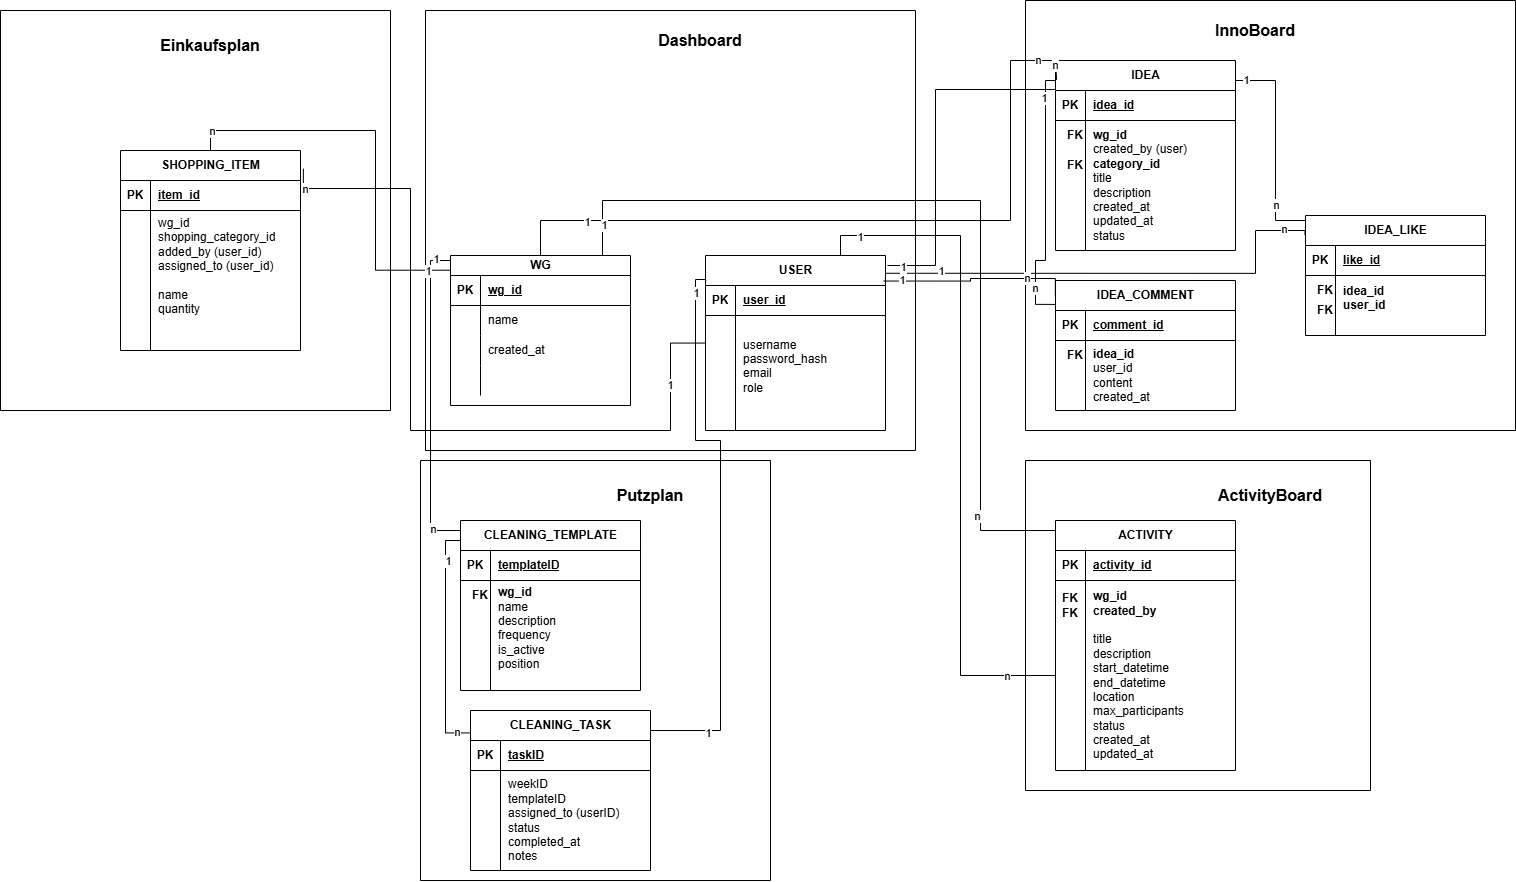
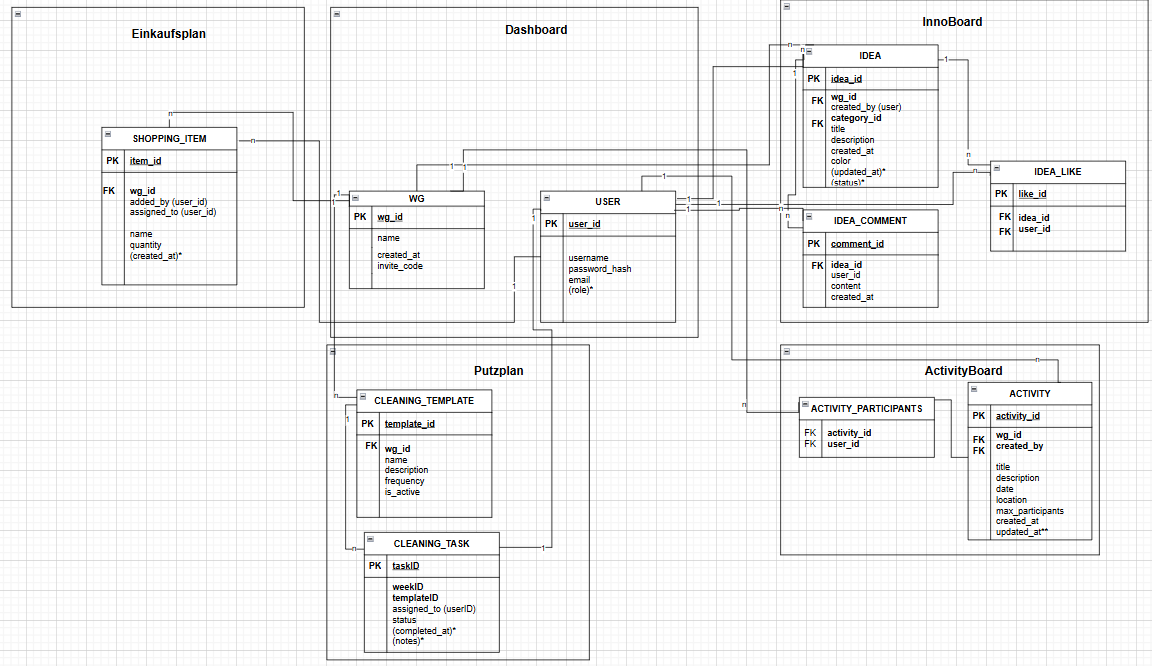
Add entitiy description to data model

diff --git a/templates/activityboard.html b/templates/activityboard.html
@@ -128,7 +128,7 @@
         </div>
         <div style="margin-bottom: 15px;">
             <label for="activity_date">Bis zum / um</label>
-            {{ form.updated_at(style="display: block; margin-top: 5px; padding: 8px; width: 100%;") }}
+            {{ form.date_to(style="display: block; margin-top: 5px; padding: 8px; width: 100%;") }}
         </div>
 
         <div style = "margin-bottom: 15px;">

diff --git a/db.py b/db.py
@@ -25,9 +25,10 @@ class User(db.Model):
     __tablename__ = 'USER'
     user_id = db.Column(db.Integer, primary_key=True, index=True, unique=True)
     username = db.Column(db.String, nullable=False, unique=True)
-    password_hash = db.Column(db.String, nullable=False, unique=True)
+    password_hash = db.Column(db.String, nullable=False)
     email = db.Column(db.String, nullable=False, unique=True)
     wg_id = db.Column(db.Integer, db.ForeignKey('WG.wg_id'), nullable=True)
+    role = db.Column(db.String, nullable=False, default='member')  #roles implemented: member (further implementation of others roles possible)
     #Beziehungen
     wg = db.relationship('Wg', back_populates='users')
     cleaning_tasks = db.relationship('CleaningTask', back_populates='assigned_user')
@@ -51,10 +52,11 @@ class Wg(db.Model):
     name = db.Column(db.String, nullable=False, unique=True)
     created_at = db.Column(db.DateTime, server_default=db.func.now())
     invite_code = db.Column(db.String(6), nullable=True)
+
+    #Beziehungen
     shopping_items = db.relationship('ShoppingItem', back_populates='wg', cascade='all, delete-orphan')
     users = db.relationship('User', back_populates='wg')
     cleaning_templates = db.relationship('CleaningTemplate', back_populates='wg', cascade='all, delete-orphan')
-    #Beziehungen
     activities = db.relationship('Activity', back_populates='wg', cascade='all,delete-orphan')
     ideas = db.relationship('Idea', back_populates='wg', cascade='all, delete-orphan')
 
@@ -108,15 +110,14 @@ class Activity(db.Model):
     location = db.Column(db.String)
     max_participants = db.Column(db.Integer, nullable=True)
     
+    created_at = db.Column(db.DateTime, server_default=db.func.now())
+    date_to = db.Column(db.DateTime, nullable=False)  #new time variable as to not use migrate too much
+    #Beziehungen
     participants = db.relationship(
         "User",
         secondary=activity_participants,
         back_populates="joined_activities"
     )  #participants 
-    
-    created_at = db.Column(db.DateTime, server_default=db.func.now())
-    updated_at = db.Column(db.DateTime, nullable=False)  #new time varivable as to not migrate
-    #Beziehungen
     wg = db.relationship('Wg', back_populates='activities')
     creator = db.relationship('User', back_populates='activities_created')
     
@@ -160,35 +161,3 @@ class Idea_Like(db.Model):
     user = db.relationship('User', back_populates='idea_likes')
     
 
-    
-
-
-
-
-
-
-
-
-
-
-
-
-
-
-
-
-# def db_connection():
-#     if 'db_con' not in g:
-#         g.db_con = sqlite3.connect(current_app.config['DATABASE'])
-#     return db_con
-
-# def db_close(db_con):
-#     db_con = g.pop('db_con', None)
-#     if db_con is not None:
-#         db_con.close()
-
-# sql_query = "SELECT * FROM list ORDER BY name;"
-
-# db_con = db_connection()
-# lists = db_con.execute(sql_query)
-# db_close(db_con)

diff --git a/app.py b/app.py
@@ -24,15 +24,12 @@ app = Flask(__name__)
 #session
 app.secret_key = "super-secret-key"
 
-app = Flask(__name__)
 app.config['SECRET_KEY'] = 'HappyWG_Project_SecretKey'
 app.config['SQLALCHEMY_DATABASE_URI'] = 'sqlite:///happywg.sqlite'
 
 db.init_app(app)
 migrate = Migrate(app, db)   #brauch man um neue Spalten zu erstellten Tabellen hinzuzufügen
 
-#session["user_id"] = user.user_id
-#session["wg_id"] = user.wg_id  
 
 def current_user():
     uid = session.get("user_id")
@@ -566,7 +563,7 @@ def activity_board():
                 title=form.title.data,
                 description=form.description.data,
                 date=form.date.data,
-                updated_at=form.updated_at.data,
+                date_to=form.date_to.data,
                 location=form.location.data,
                 max_participants=form.max_participants.data,
                 created_at=db.func.now()

diff --git a/migrations/versions/904c3bd6ca69_add_participants_to_activity.py b/migrations/versions/904c3bd6ca69_add_participants_to_activity.py
@@ -1,4 +1,4 @@
-"""add participants to activity
+"""remove unique constraint from password_hash in USER table
 
 Revision ID: 904c3bd6ca69
 Revises: 83de07b7ce81
@@ -18,12 +18,12 @@ depends_on = None
 
 def upgrade():
     # ### commands auto generated by Alembic - please adjust! ###
-    with op.batch_alter_table('ACTIVITY', schema=None) as batch_op:
-        batch_op.add_column(sa.Column('participants', sa.String(), nullable=True))
-        batch_op.alter_column('updated_at',
+    with op.batch_alter_table('USER', schema=None) as batch_op:
+        
+        batch_op.alter_column('password_hash',
                existing_type=sa.DATETIME(),
                nullable=False)
-        batch_op.drop_column('status')
+        
 
     # ### end Alembic commands ###
 

diff --git a/migrations/versions/83de07b7ce81_add_date_to_activity.py b/migrations/versions/83de07b7ce81_add_date_to_activity.py
@@ -18,13 +18,9 @@ depends_on = None
 
 def upgrade():
     # ### commands auto generated by Alembic - please adjust! ###
-    with op.batch_alter_table('ACTIVITY', schema=None) as batch_op:
-        batch_op.add_column(sa.Column('date', sa.DateTime(), nullable=False))
-        batch_op.drop_column('start_datetime')
-        batch_op.drop_column('end_datetime')
+    with op.batch_alter_table('USER', schema=None) as batch_op:
+        batch_op.batch_alter_table(sa.Column('password_hash', sa.DateTime(), nullable=False))
 
-    with op.batch_alter_table('IDEA', schema=None) as batch_op:
-        batch_op.drop_column('category_id')
 
     # ### end Alembic commands ###
 

diff --git a/migrations/versions/14a3a842b80b_drop_unique_on_password_hash.py b/migrations/versions/14a3a842b80b_drop_unique_on_password_hash.py
@@ -1,0 +1,25 @@
+"""drop unique on password_hash
+
+Revision ID: 14a3a842b80b
+Revises: 67355bf1e881
+Create Date: 2026-02-03 13:14:51.395238
+
+"""
+from alembic import op
+import sqlalchemy as sa
+
+
+# revision identifiers, used by Alembic.
+revision = '14a3a842b80b'
+down_revision = '67355bf1e881'
+branch_labels = None
+depends_on = None
+
+
+def upgrade():
+    with op.batch_alter_table('USER') as batch_op:
+        batch_op.drop_constraint('uq_USER_password_hash', type_='unique')
+
+def downgrade():
+    with op.batch_alter_table('USER') as batch_op:
+        batch_op.create_unique_constraint('uq_USER_password_hash', ['password_hash'])

diff --git a/migrations/versions/068d3ff48255_drop_unique_on_password_hash.py b/migrations/versions/068d3ff48255_drop_unique_on_password_hash.py
@@ -1,0 +1,24 @@
+"""drop unique on password_hash
+
+Revision ID: 068d3ff48255
+Revises: 14a3a842b80b
+Create Date: 2026-02-03 13:19:24.930159
+
+"""
+from alembic import op
+import sqlalchemy as sa
+
+
+# revision identifiers, used by Alembic.
+revision = '068d3ff48255'
+down_revision = '14a3a842b80b'
+branch_labels = None
+depends_on = None
+
+
+def upgrade():
+    pass
+
+
+def downgrade():
+    pass

diff --git a/docs/data_model.md b/docs/data_model.md
@@ -7,9 +7,72 @@ nav_order: 2
 
 # Data Model
 
-## Unser Data Model, Stand 11.12.2025
+## Das Data Model von Happy WG, Stand 03.02.2025
 <img src="assets/images/data_model.png" alt="Data Model" width="1500" height= "1500">
 
+### Entities (Tabellen) und wichtigste Spalten
+
+*_nicht (direkt) implementiert, aber geeignet für evtl. weitere App-Erweiterungen_
+
+`WG`
+- **PK:** `wg_id`
+- **Spalten:** `name` (unique), invite_code (String(6)), created_at 
+- **Rollen:** Scope für fast alle Daten & Kollaboration
+
+`User`
+**PK:** `user_id`
+**Spalten:** FK: Wg → `wg_id`(nullable),`username` (unique), `email` (unique), `password_hash`, `role` (default: member; für Erweiterungen geeignet)
+**Rolle:** Nutzerkonto; gehört optional zu einer WG (am Anfang keiner, deswegen nullable), wird nach "Join" gesetzt.
+
+#### Putzplan
+`CLEANING_TEMPLATE`
+- **PK:** `template_id`
+- **FK:** `wg_id` → `WG.wg_id`
+- **Spalten:** `name`, `description`, `frequency`*, `is_active`
+**Rolle:** Für weitere Erweiterungen gedacht; Template abspeichern und wiederverwenden (_aus Zeitgründen & Projektkomplexität nicht implementiert_)
+
+`CLEANING_TASK`
+- **PK:** `task_id`
+- **FKs:** `template_id` → `CLEANING_TEMPLATE.template_id`, `assigned_to` → `USER.user_id`
+- **Spalten:** `status`, `completed_at`* & `notes`*
+- **Rolle:** Beinhaltet die Aufgabe zum durchstreichen.
+
+#### InnovationBoard
+`IDEA`
+- **PK:** `idea_id`
+- **FKs:** `wg_id` 
+- **Spalten:** `title`, `description`, `color`, `created_at`, `updated_at`* & `status`*
+- **Rolle:** WG-Mitglieder können eine Idee erstellen, beinhaltet alle wichtigen Infos zu dieser Idee.
+
+`IDEA_COMMENT`
+- **PK:** `comment_id`
+- **FKs:** `idea_id` → `IDEA.idea_id`, `user_id` → `USER.user_id`
+- **Spalten:** `content`, `created_at`
+- **Rolle:** Gehört einer Idee, der User kann diese Idee kommentieren.
+
+`IDEA_LIKE`
+- **PK:** `like_id`
+- **FKs:** `idea_id` → `IDEA.idea_id`, `user_id` → `USER.user_id`
+- **Rolle:** Die Idee hat einen Like-Button, welchen die User klicken können. Ein Like von diesem User wird dieser Idee hinzugefügt.
+
+#### ActivityBoard
+
+`ACTIVITY`
+- **PK:** `activity_id`
+- **FKs:** `wg_id` → `Wg.wg_id`, `created_by` → `USER.user_id`
+- **Spalten:** `title`, `description`, `date`, `location`, `max_participants`, `created_at`, `updated_at`*
+- **Rolle:** User können Aktivitäten hinzufügen, die alle Informationen über diese Aktivität enthalten.
+
+`ACTIVITY_PARTICIPANTS` (Assoziationstabelle)
+- **Composite PK:** (`activity_id`, `user_id`)
+- **FKs:** `activity_id` → `ACTIVITY.activity_id`, `user_id` → `USER.user_id`
+- **Rolle:** Many-to-Many: Teilnehmer einer Activity
+  
+`ShoppingItem`
+- **PK:** `item_id` → `WG.wg_id`, `created_by` → `USER.user_id`
+- **FKs**: wg_id → WG.wg_id, added_by → USER.user_id, assigned_to → USER.user_id
+- **Spalten:** `name`, `quantity`, `created_at`
+- **Rolle:** User können Einkaufsitems anlegen mit der zuständigen Person, Menge & Name
 
 
 {: .fs-2 }

diff --git a/docs/architecture.md b/docs/architecture.md
@@ -32,7 +32,7 @@ Für die visuelle Orientierung in der App empfehlen wir die [Customer Journey]({
 - **SQLAlchemy ORM** als Datenzugriffsschicht:  
   Models bilden Tabellen/Beziehungen ab, Queries werden als Python-Objekte formuliert.
 - **ORM-Instanzierung & Persistenz:** Anschließend zu **SQLAlchemy ORM:** beispielhafte Erstellung der Objekt-Instanzen durch `new_activity = Activity(...)`, dann `db.session.commit()`.
-- **Performance/Eager Loading:** Beispielsweise `.options(joinedload(Activity.creator), joinedload(Activity.participants))` → vermeidet N+1 Queries im Template (alle Daten werden mittels einer einzigen Query geladen).
+- **Performance/Eager Loading:** Beispielsweise `.options(joinedload(Activity.creator), joinedload(Activity.participants))` → vermeidet [N+1](https://www.stefan-goebel.com/2018/was-ist-das-n1-query-problem/) Queries im Template (alle Daten werden mittels einer einzigen Query geladen).
 - **Multi-Tenancy (WG-Scoping) über `wg_id` [kritische Designentscheidung]({{ site.baseurl }}/design_decisions.html):**  
   Alle relevanten Datenobjekte hängen an einer WG; **jede** Query/Änderung wird auf `current_user.wg_id` begrenzt → verhindert Cross-WG Datenzugriffe.
 - **Session-basierte Authentifizierung:** 
@@ -47,12 +47,21 @@ Für die visuelle Orientierung in der App empfehlen wir die [Customer Journey]({
 ### Visualisierung der Architektur
 ![AppArchitectureVisual](assets/images/architecture/HappyWG%20SSR%20App%20ICS%20Flow-2026-02-02-101303.png)
 
+### Tech-Stack:
+- **Backend:** Python, Flask
+- **Templating:** Jinja2
+- **DB/ORM:** SQLite (dev) + SQLAlchemy (später leicht auf Postgres/MySQL migrierbar)
+- **Migrations:** Flask-Migrate (Alembic)
+- **Forms/Validation:** Flask-WTF / WTForms
+- **UI:** Bootstrap (CSS), minimale/no-JS Interaktionen (POST + Redirect)
+- **Kalenderexport:** iCalendar (.ics)
+
 ## Codemap
 
 **High-Level Codemap-Visualisierung**
 ![ComponentDiagram](assets/images/architecture/HappyWG%20SSR%20App%20ICS%20Flow-2026-02-02-122120.png)
 
-**`app.py`** (Routes / Controllers)
+**(Routes / Controllers)`app.py`** 
 
 - Authorisierung & Session Flow: `login`, `register`, `logout`, Wrapper `login_required`
 - WG Flow - WG erstellen: `create_or_join_wg`, `create_wg`, `generate_unique_code` & beitreten: `join_wg`
@@ -85,7 +94,7 @@ Für die visuelle Orientierung in der App empfehlen wir die [Customer Journey]({
   `LoginForm`, `RegisterForm`, `PutzplanForm`, `EinkaufsplanForm`, `ActivityForm`, `InnovationForm`, `CommentForm`
 
 **Views: `templates/`**
-- Jinja2 Templates für alle Seiten (Login, Registrierung, Dashboard, Boards, Modals etc.)
+- UI: Jinja2 Templates für alle Seiten (Login, Registrierung, Dashboard, Boards, Modals etc.)
 - Geteiltes Layout besitzt Flash Messages und Content-Blocks aus `base.html`.
   
 **`assets/`**

diff --git a/README.md b/README.md
@@ -1,6 +1,28 @@
-# Web-Development-Project
-Web Development Projekt 
-Cool Project
-branch test
+# Web-Development-Project Happy WG
 
-Can I collaborate?
+## **Local Setup** 
+1. Repository klonen
+2. Virtuelle Umgebung erstellen & aktivieren (Windows: `python -m venv venv` **ODER** auf MacOS/Linux: `python3 -m venv .venv`, dann `source .venv/bin/activate`)
+3. Dependencies installieren (pip install -r requirements.txt)
+4. DB initialisieren / Migrationen ausführen (im Terminal mit venv aktiv: `flask init-db`)
+5. App starten
+
+Wie man Flask Migrate benutzt (zum Tabellen ändern, droppen etc.)
+
+Sollte das Terminal sowas werfen:
+
+"`ERROR [flask_migrate] Error: Target database is not up to date.`" (aber man weiß, dass die Datenbank auf dem neusten Stand ist, Alembic hängt aber hinterher)
+Grund: Durch `with app.app_context(): db.create_all()` in app.py wurde die Datenbank schon initialisiert
+
+Fix: Neuen Head machen von der aktuellen Datenbank im Root-Verzeichnis (z.B. hier .../Web-Development-Project (Daten behalten))
+
+Im Terminal: `flask --app app db stamp head`
+
+Prüfen:
+`flask --app app db current`
+`flask --app app db heads`
+(Beides sollte übereinstimmen)
+
+dann:
+`flask --app app db revision -m "Was ist in dieser DB-Revision"`
+`flask --app app db upgrade`
